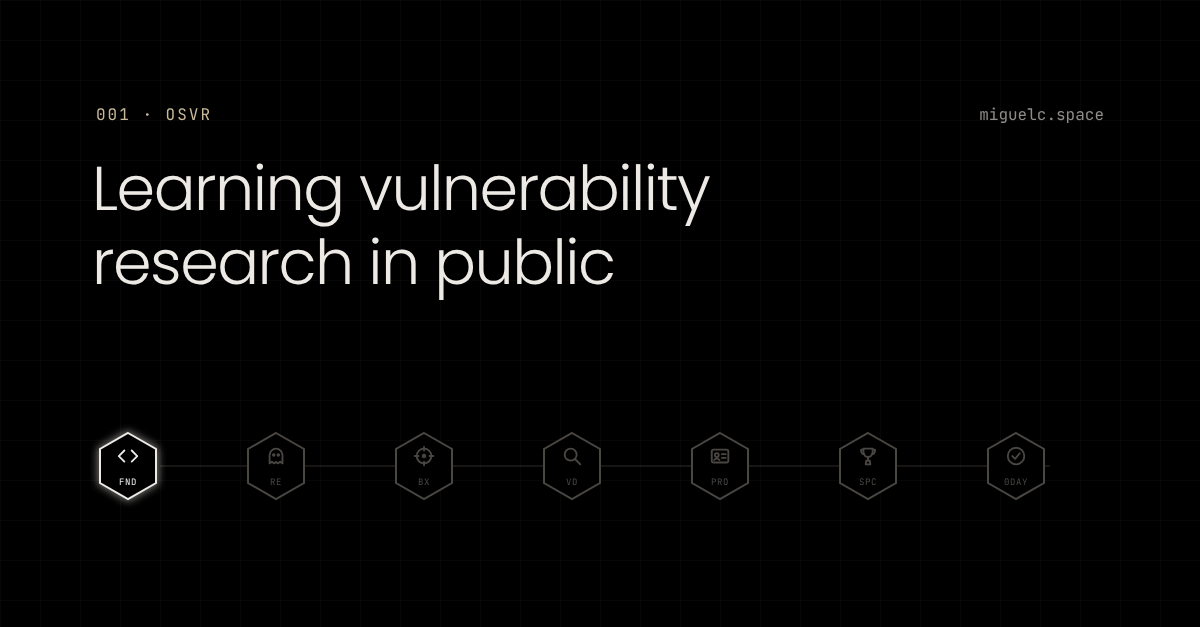
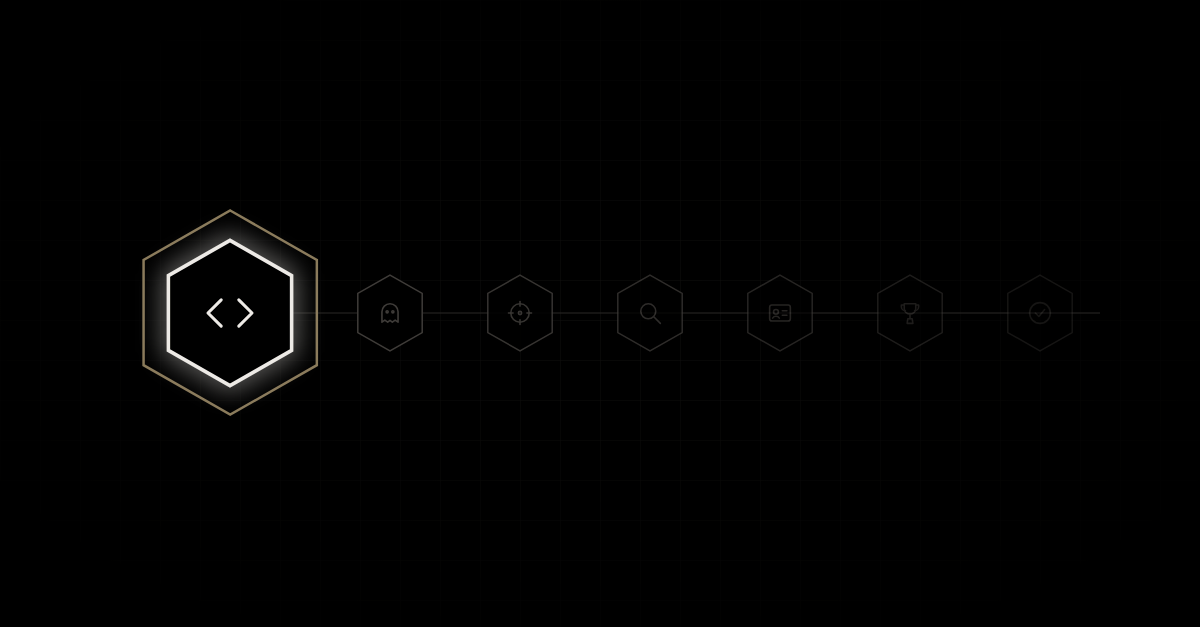
First post: text-free cover
The seven roadmap badges, icons only: the first large, lit and ringed in
gold, the rest of the path running right and fading. No text.

Claude-Session: https://claude.ai/code/session_01B4MRzLeeKF1BnDdWxJYDUU

diff --git a/blog/learning-vulnerability-research-in-public/index.html b/blog/learning-vulnerability-research-in-public/index.html
@@ -51,7 +51,7 @@
 <p class="meta"><span>miguel</span><span><time datetime="2026-11-14">November 14th, 2026</time></span><span><a href="/tags/roadmap/">roadmap</a>, <a href="/tags/vulnerability-research/">vulnerability-research</a></span></p>
 <h1>Learning vulnerability research in public</h1>
 <p class="lede">I am a security engineer teaching myself vulnerability research, six hours a week, and logging every step here.</p>
-<img class="cover" src="cover.png" width="1200" height="627" alt="Learning vulnerability research in public: seven roadmap badges in a row, the first one lit.">
+<img class="cover" src="cover.png" width="1200" height="627" alt="Seven hexagon badges along a line: the first large and lit, the rest still dark.">
 <p>I&#39;m Miguel, a security engineer at LAYER8.</p>
 <p>This week I started teaching myself vulnerability research: finding, root-causing and disclosing security bugs nobody has found yet.</p>
 <h2>The plan</h2>

diff --git a/blog/index.html b/blog/index.html
@@ -62,7 +62,7 @@
 <p>I am a security engineer teaching myself vulnerability research, six hours a week, and logging every step here.</p>
 <a class="more" href="/blog/learning-vulnerability-research-in-public/">Read more</a>
 </div>
-<a class="pic" href="/blog/learning-vulnerability-research-in-public/" tabindex="-1"><img src="/blog/learning-vulnerability-research-in-public/cover.png" width="1200" height="627" alt="Learning vulnerability research in public: seven roadmap badges in a row, the first one lit."></a>
+<a class="pic" href="/blog/learning-vulnerability-research-in-public/" tabindex="-1"><img src="/blog/learning-vulnerability-research-in-public/cover.png" width="1200" height="627" alt="Seven hexagon badges along a line: the first large and lit, the rest still dark."></a>
 </article>
 </main>
 <footer class="foot">

diff --git a/tags/roadmap/index.html b/tags/roadmap/index.html
@@ -62,7 +62,7 @@
 <p>I am a security engineer teaching myself vulnerability research, six hours a week, and logging every step here.</p>
 <a class="more" href="/blog/learning-vulnerability-research-in-public/">Read more</a>
 </div>
-<a class="pic" href="/blog/learning-vulnerability-research-in-public/" tabindex="-1"><img src="/blog/learning-vulnerability-research-in-public/cover.png" width="1200" height="627" alt="Learning vulnerability research in public: seven roadmap badges in a row, the first one lit."></a>
+<a class="pic" href="/blog/learning-vulnerability-research-in-public/" tabindex="-1"><img src="/blog/learning-vulnerability-research-in-public/cover.png" width="1200" height="627" alt="Seven hexagon badges along a line: the first large and lit, the rest still dark."></a>
 </article>
 </main>
 <footer class="foot">

diff --git a/tags/vulnerability-research/index.html b/tags/vulnerability-research/index.html
@@ -62,7 +62,7 @@
 <p>I am a security engineer teaching myself vulnerability research, six hours a week, and logging every step here.</p>
 <a class="more" href="/blog/learning-vulnerability-research-in-public/">Read more</a>
 </div>
-<a class="pic" href="/blog/learning-vulnerability-research-in-public/" tabindex="-1"><img src="/blog/learning-vulnerability-research-in-public/cover.png" width="1200" height="627" alt="Learning vulnerability research in public: seven roadmap badges in a row, the first one lit."></a>
+<a class="pic" href="/blog/learning-vulnerability-research-in-public/" tabindex="-1"><img src="/blog/learning-vulnerability-research-in-public/cover.png" width="1200" height="627" alt="Seven hexagon badges along a line: the first large and lit, the rest still dark."></a>
 </article>
 </main>
 <footer class="foot">
